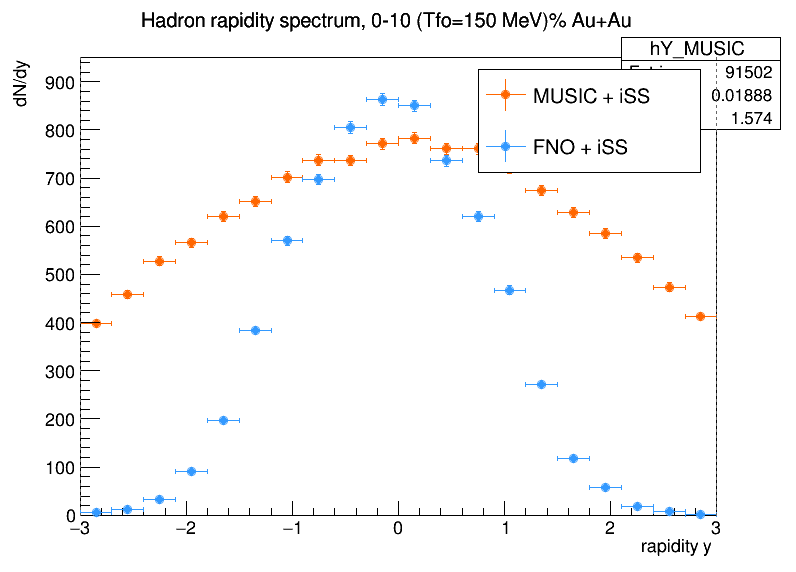
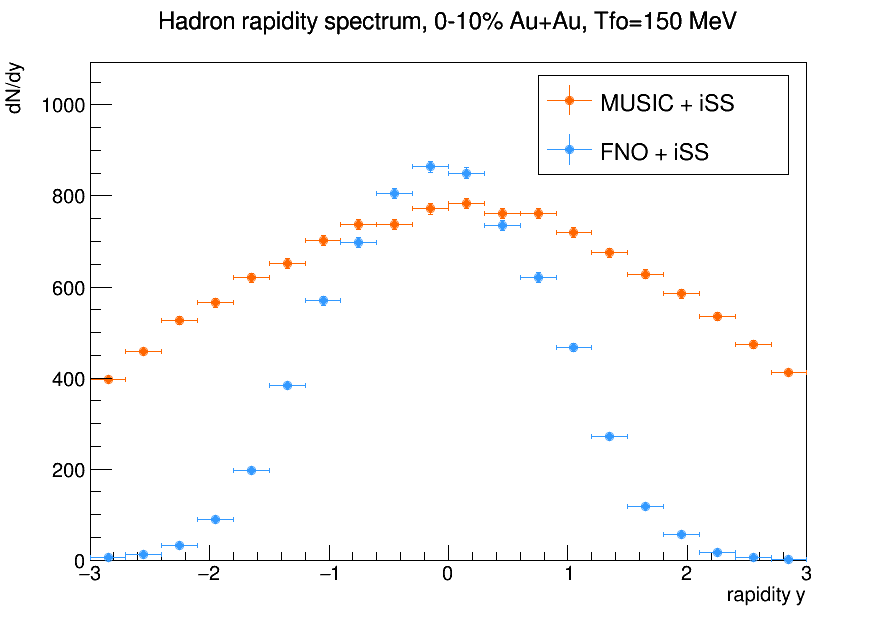
Show all four centralities at Tfo=150 MeV side by side; strip ROOT stats boxes
PARTICLIZATION_INVESTIGATION.md: the centrality-sweep section now embeds all
four rapidity plots (0-10%, 10-20%, 20-30%, 30-40%) together instead of
leaving 0-10% as a text-only reference and 30-40% in a separate section.

compare_particle_spectra.py / plot_final_peak.py: explicit h.SetStats(0) on
every histogram (gStyle.SetOptStat(0) alone doesn't clear the box on
histograms already written to a .root file with stats enabled, since the
flag is baked into the object) -- cleans up every rapidity/pT plot's
top-right corner. Regenerated the five affected plots already embedded in
the doc from their existing .root files, no resimulation needed.

diff --git a/contribs/FnoHydro/example/plot_final_peak.py b/contribs/FnoHydro/example/plot_final_peak.py
@@ -11,6 +11,7 @@ import sys
 import ROOT
 
 ROOT.gROOT.SetBatch(True)
+ROOT.gStyle.SetOptStat(0)
 
 
 def main():
@@ -21,6 +22,8 @@ def main():
     f = ROOT.TFile(root_path)
     h_fno = f.Get("hY_FNO")
     h_music = f.Get("hY_MUSIC")
+    h_fno.SetStats(0)
+    h_music.SetStats(0)
 
     c = ROOT.TCanvas("c_final_peak", "final sampled rapidity", 900, 650)
     h_music.SetTitle(f"{title};rapidity y;dN/dy")

diff --git a/contribs/FnoHydro/example/compare_particle_spectra.py b/contribs/FnoHydro/example/compare_particle_spectra.py
@@ -24,6 +24,7 @@ import math
 import ROOT
 
 ROOT.gROOT.SetBatch(True)
+ROOT.gStyle.SetOptStat(0)
 
 
 def parse_final_state_hadrons(path):
@@ -67,6 +68,8 @@ def fill_spectra(path, n_oversamples, label, color, y_cut=(-1.0, 1.0)):
                      20, -3.0, 3.0)
     h_pt.Sumw2()
     h_y.Sumw2()
+    h_pt.SetStats(0)
+    h_y.SetStats(0)
 
     n_particles = 0
     n_midrapidity = 0

diff --git a/contribs/FnoHydro/PARTICLIZATION_INVESTIGATION.md b/contribs/FnoHydro/PARTICLIZATION_INVESTIGATION.md
@@ -263,15 +263,19 @@ to check whether the 30-40% improvement generalizes.
 (0-10%, 10-20% -- the highest-multiplicity, largest systems tested) respond
 weakly or not at all to the Tfo fix; the two less-central bins (20-30%,
 30-40%) respond clearly, with 20-30% giving the cleanest FNO/MUSIC agreement
-seen anywhere in this investigation:
+seen anywhere in this investigation. All four, at Tfo=150 MeV, side by side:
+
+![Hadron rapidity, 0-10% centrality, Tfo=150 MeV -- FNO still shows a mild excess at center](docs/particlization_investigation/y_spectrum_0_10_Tfo150.png)
+
+![Hadron rapidity, 10-20% centrality, Tfo=150 MeV -- FNO still shows a mild excess at center](docs/particlization_investigation/y_spectrum_10_20_Tfo150.png)
 
 ![Hadron rapidity, 20-30% centrality, Tfo=150 MeV -- FNO tracks MUSIC closely through the whole shared midrapidity region](docs/particlization_investigation/y_spectrum_20_30_Tfo150.png)
 
-10-20%, by contrast, still shows a visible excess bump at center even at
-150 MeV, and 0-10% (not pictured here, see
-`docs/particlization_investigation/y_spectrum_0_10_Tfo150.png`) looks similar:
+![Hadron rapidity, 30-40% centrality, Tfo=150 MeV (15 FNO events / 5 MUSIC events ensemble) -- peak reduced but not eliminated](docs/particlization_investigation/final_sampled_rapidity_Tfo150.png)
 
-![Hadron rapidity, 10-20% centrality, Tfo=150 MeV -- FNO still shows a mild excess at center](docs/particlization_investigation/y_spectrum_10_20_Tfo150.png)
+(The 30-40% plot is the ensemble version from the "Parameter study" section
+above, shown again here for direct side-by-side comparison with the other
+three single-event centralities; 0-10%/10-20%/20-30% are single-event only.)
 
 This means centrality itself is a real variable in whatever's driving the
 residual peak, not just the freeze-out temperature choice. See the next
